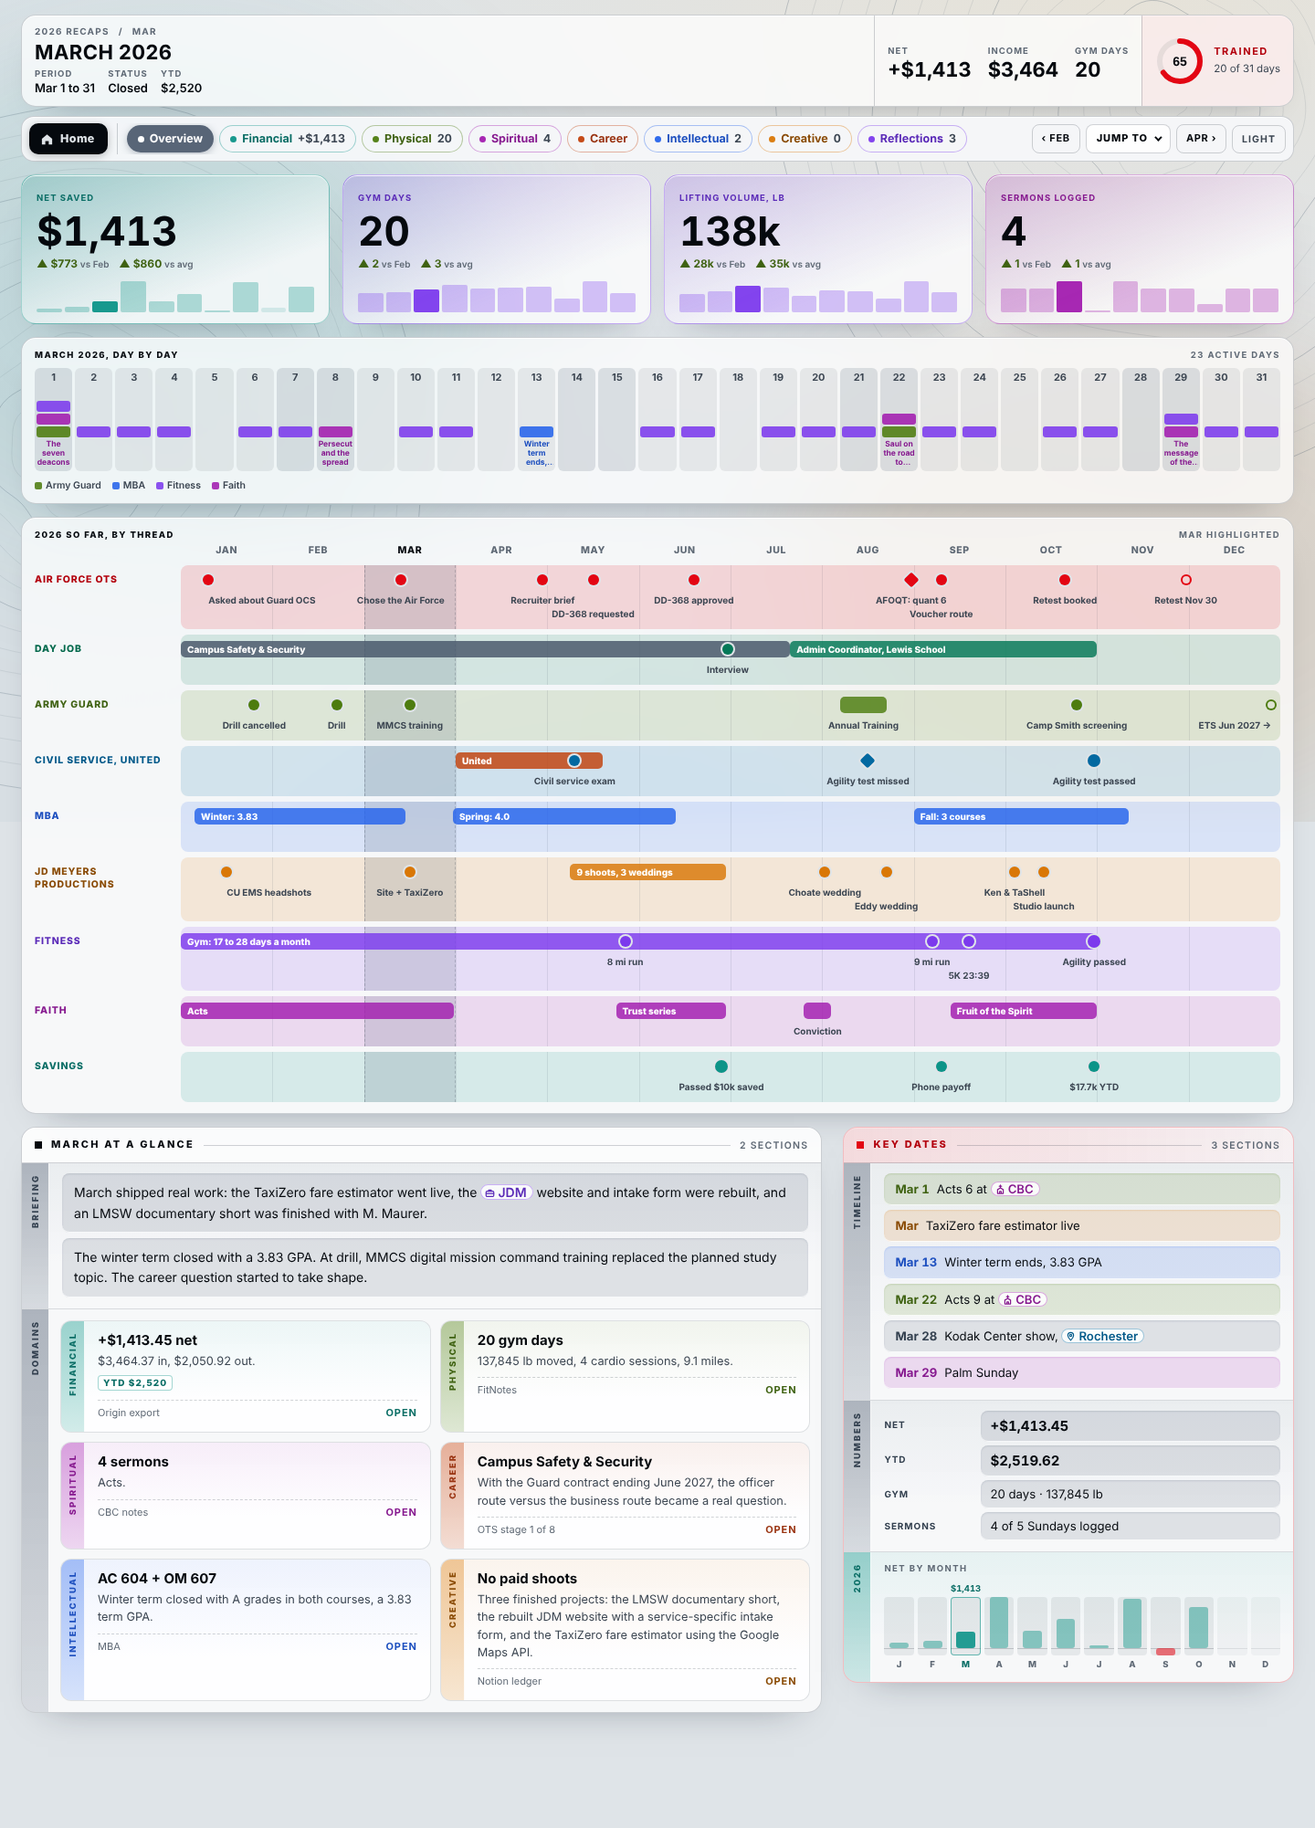
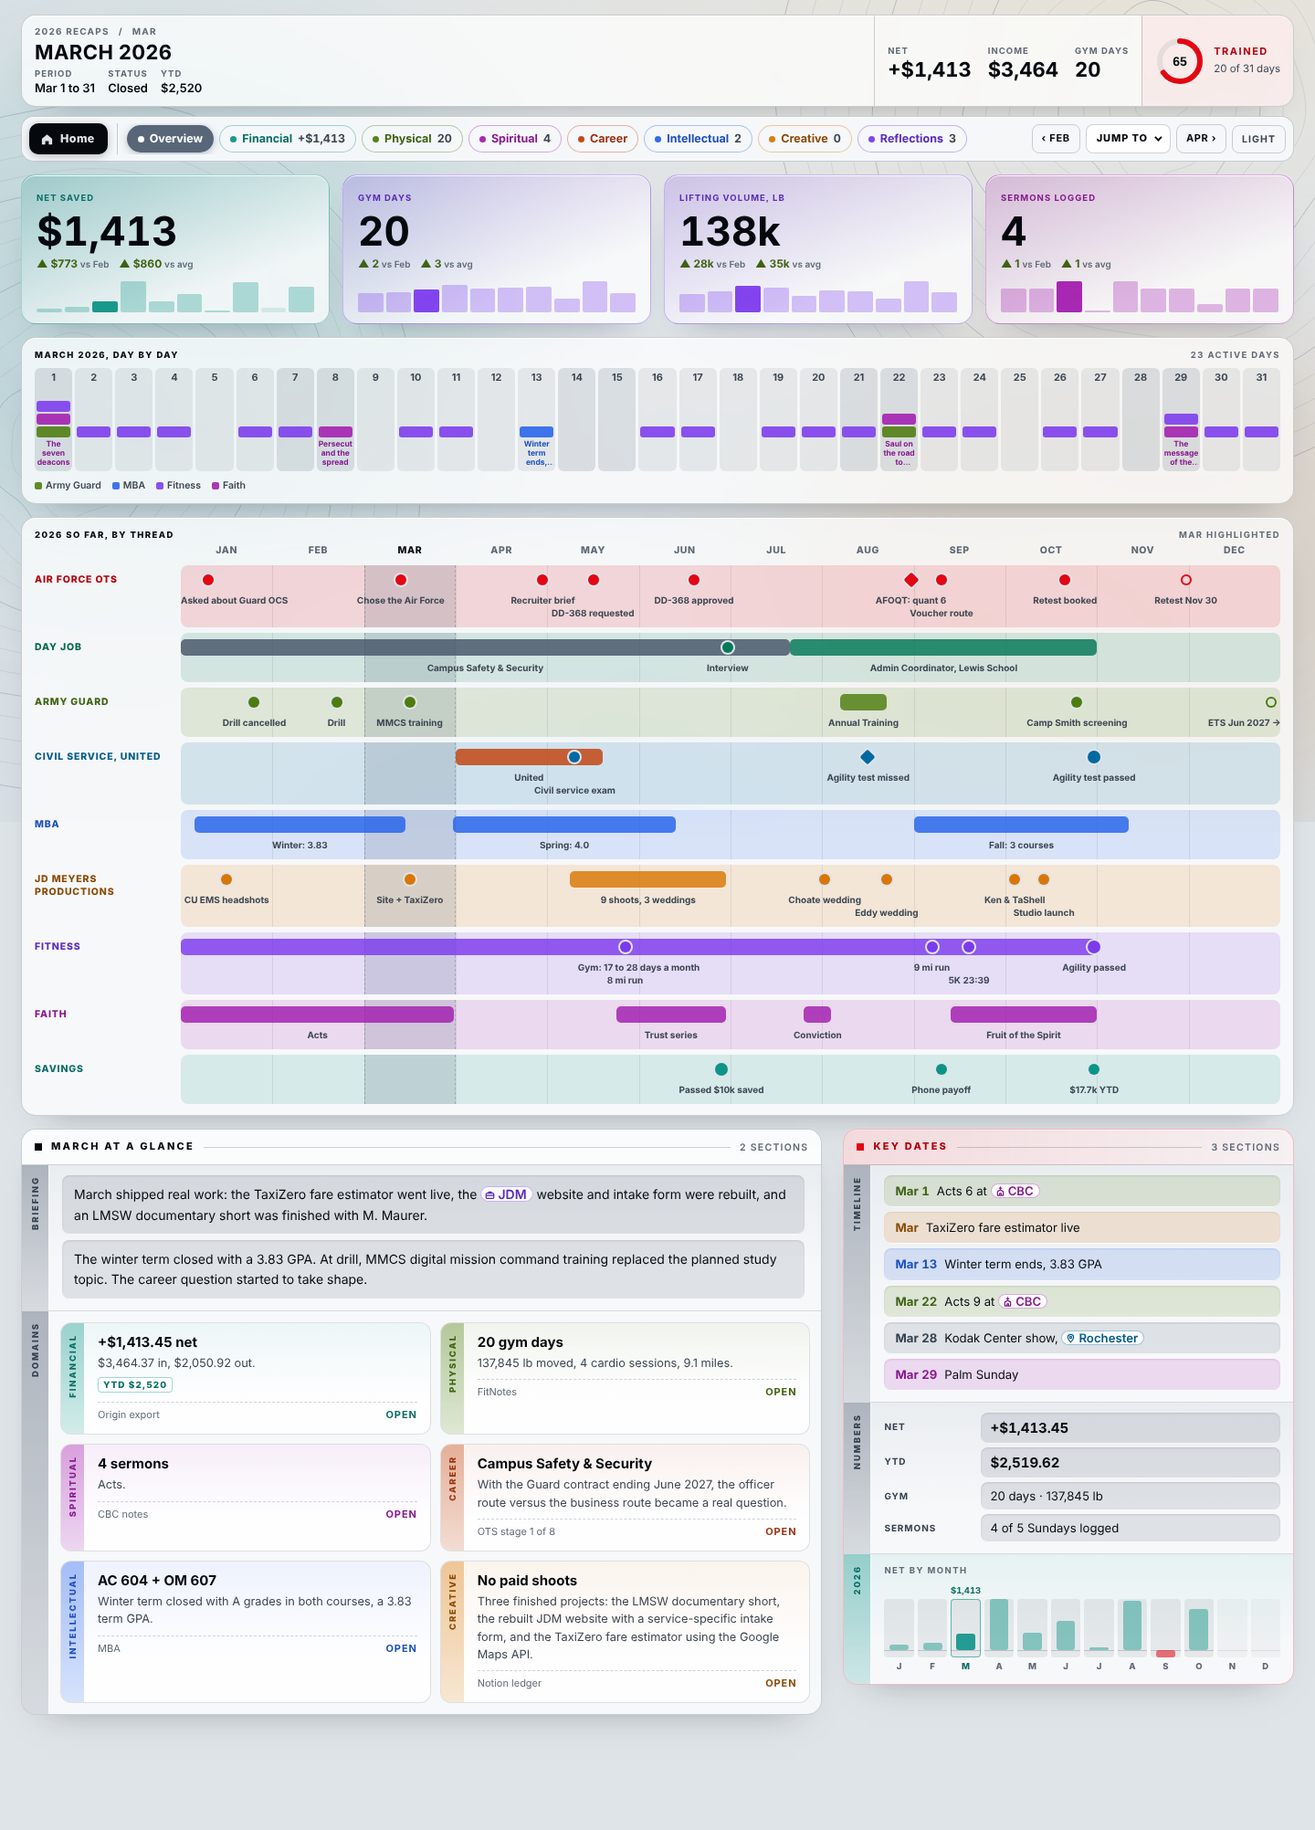
Polish: only the site bar pins, compact phone header and bar, motion tokens, lanes fit phones
Claude-Session: https://claude.ai/code/session_01X7LZkzwnUuj1945EJPLkyM

diff --git a/assets/ledger.css b/assets/ledger.css
@@ -7,12 +7,13 @@
    ===================================================================== */
 
 :root{
+  --ease-out:cubic-bezier(.25,1,.5,1); --ease-in:cubic-bezier(.5,0,.75,0); --t-fast:140ms; --t-med:220ms;
   --h-slate:71,85,105; --h-amber:217,119,6; --h-blue:37,99,235; --h-violet:124,58,237;
   --h-green:77,124,15; --h-teal:13,148,136; --h-red:227,6,19;
   --h-sky:3,105,161; --h-emerald:4,120,87; --h-magenta:162,28,175; --h-orange:194,65,12;
 
   --bg:#dfe4e8; --bg-wash-a:#e6e2d8; --bg-wash-b:#d8dfe4;
-  --glass:rgba(255,255,255,.74); --glass-solid:rgba(246,248,250,.93); --glass-head:rgba(255,255,255,.5); --glass-card:rgba(255,255,255,.85);
+  --glass:rgba(255,255,255,.74); --glass-solid:rgba(246,248,250,.96); --bg-solid:#f7f9fb; --glass-head:rgba(255,255,255,.5); --glass-card:rgba(255,255,255,.85);
   --hair:rgba(24,36,52,.2); --hair-soft:rgba(24,36,52,.14);
   --hi:rgba(255,255,255,.85); --shadow:0 18px 40px -30px rgba(20,30,45,.5);
   --text:#05090e; --muted:#3c4652; --faint:#5f6975;
@@ -28,7 +29,7 @@
 }
 @media (prefers-color-scheme:dark){:root:not([data-theme="light"]){
   --bg:#0b1016; --bg-wash-a:#141a22; --bg-wash-b:#0a0e13;
-  --glass:rgba(22,30,40,.55); --glass-solid:rgba(15,21,29,.9); --glass-head:rgba(255,255,255,.03); --glass-card:rgba(26,34,45,.62);
+  --glass:rgba(22,30,40,.55); --glass-solid:rgba(15,21,29,.95); --bg-solid:#121a24; --glass-head:rgba(255,255,255,.03); --glass-card:rgba(26,34,45,.62);
   --hair:rgba(220,232,245,.11); --hair-soft:rgba(220,232,245,.07);
   --hi:rgba(255,255,255,.06); --shadow:0 22px 50px -30px rgba(0,0,0,.9);
   --text:#e6ebf1; --muted:#9aa6b3; --faint:#6b7784;
@@ -40,7 +41,7 @@
   --brand:#ff3b47; color-scheme:dark}}
 :root[data-theme="dark"]{
   --bg:#0b1016; --bg-wash-a:#141a22; --bg-wash-b:#0a0e13;
-  --glass:rgba(22,30,40,.55); --glass-solid:rgba(15,21,29,.9); --glass-head:rgba(255,255,255,.03); --glass-card:rgba(26,34,45,.62);
+  --glass:rgba(22,30,40,.55); --glass-solid:rgba(15,21,29,.95); --bg-solid:#121a24; --glass-head:rgba(255,255,255,.03); --glass-card:rgba(26,34,45,.62);
   --hair:rgba(220,232,245,.11); --hair-soft:rgba(220,232,245,.07);
   --hi:rgba(255,255,255,.06); --shadow:0 22px 50px -30px rgba(0,0,0,.9);
   --text:#e6ebf1; --muted:#9aa6b3; --faint:#6b7784;
@@ -115,7 +116,7 @@ a{color:inherit}
 .tabs{display:flex;gap:6px;align-items:center;flex:1 1 auto;min-width:0;overflow-x:auto;scrollbar-width:none;padding:2px 2px 2px 10px;border-left:1px solid var(--hair)}
 .tabs::-webkit-scrollbar{display:none}
 .chip{display:inline-flex;align-items:center;gap:6px;flex:none;font-size:12.5px;font-weight:700;padding:6px 12px;border-radius:999px;background:transparent;color:var(--k,var(--text));
-  box-shadow:inset 0 0 0 1px rgba(var(--c,var(--h-slate)),var(--border-a));text-decoration:none;white-space:nowrap;transition:background .15s}
+  box-shadow:inset 0 0 0 1px rgba(var(--c,var(--h-slate)),var(--border-a));text-decoration:none;white-space:nowrap;transition:background-color var(--t-fast) var(--ease-out),color var(--t-fast) var(--ease-out),box-shadow var(--t-fast) var(--ease-out)}
 .chip:hover{background:rgba(var(--c,var(--h-slate)),var(--fill-a))}
 .chip[aria-pressed="true"],.chip[aria-current="page"]{background:rgba(var(--c,var(--h-slate)),.9);color:#fff;box-shadow:0 2px 8px rgba(var(--c),.35)}
 .chip[aria-current="page"] .dot{background:#fff}
@@ -131,7 +132,7 @@ a{color:inherit}
 .jump summary::-webkit-details-marker{display:none}
 .jump summary i{width:6px;height:6px;border-right:2px solid currentColor;border-bottom:2px solid currentColor;transform:rotate(45deg) translateY(-2px)}
 .jump[open] summary{background:rgba(var(--h-slate),.25)}
-.menu{position:absolute;right:0;top:calc(100% + 8px);width:300px;padding:10px;z-index:50;background:var(--glass-solid,var(--glass));box-shadow:var(--shadow),0 18px 40px rgba(0,0,0,.35)}
+.menu{position:absolute;right:0;top:calc(100% + 8px);width:300px;padding:10px;z-index:50;background:var(--bg-solid,var(--glass-solid));backdrop-filter:none;-webkit-backdrop-filter:none;box-shadow:var(--shadow),0 18px 40px rgba(0,0,0,.35)}
 .mgrid{display:grid;grid-template-columns:repeat(4,1fr);gap:5px}
 .mgrid a,.mgrid .off{display:flex;flex-direction:column;align-items:center;padding:7px 2px;border-radius:8px;text-decoration:none;border:1px solid var(--hair)}
 .mgrid b{font-size:12.5px;font-weight:800;color:var(--text)}
@@ -155,7 +156,6 @@ a{color:inherit}
 .parts{display:grid;grid-template-columns:minmax(0,64fr) minmax(0,36fr);gap:clamp(14px,1.6vw,26px);margin-top:14px;align-items:start}
 .sheet{overflow:hidden;min-width:0}
 .sheet.side{border-color:rgba(var(--h-red),.25)}
-.sheet.side.stick{position:sticky;top:calc(var(--barh,0px) + 20px)}
 .phead{display:flex;align-items:center;gap:10px;padding:11px 14px;font-size:11px;font-weight:800;letter-spacing:.2em;text-transform:uppercase;border-bottom:1px solid var(--hair);background:var(--glass-head)}
 .phead::before{content:"";width:8px;height:8px;background:var(--text);flex:none}
 .phead .rl{flex:1;border-top:1px solid var(--hair)}
@@ -269,7 +269,7 @@ a.card:hover{border-color:rgba(var(--c),.45)}
 .cat .ct::after{content:" txn"}
 .cat .pc{font-family:var(--display);font-size:11.5px;color:var(--muted);font-variant-numeric:tabular-nums;min-width:42px;text-align:right}
 .cat summary b{font-family:var(--display);font-size:13px;font-variant-numeric:tabular-nums;color:var(--k);min-width:78px;text-align:right}
-.cat .chev{width:7px;height:7px;border-right:2px solid var(--faint);border-bottom:2px solid var(--faint);transform:rotate(-45deg);justify-self:center}
+.cat .chev{width:7px;height:7px;border-right:2px solid var(--faint);border-bottom:2px solid var(--faint);transform:rotate(-45deg);justify-self:center;transition:transform var(--t-med) var(--ease-out)}
 .cat[open] .chev{transform:rotate(45deg)}
 .cat summary .hbar{grid-column:2/-1;height:5px}
 .cat .tx{padding:4px 0 8px 18px}
@@ -306,9 +306,9 @@ a.ym:hover .yb{box-shadow:inset 0 0 0 1px rgba(var(--c),.4)}
 .sx .es{color:var(--muted);font-variant-numeric:tabular-nums}
 
 /* back to top (the only fixed element besides the backdrop) */
-.up{position:fixed;right:max(16px,env(safe-area-inset-right,0px));bottom:max(16px,env(safe-area-inset-bottom,0px));z-index:5;width:40px;height:40px;border-radius:50%;
-  background:var(--glass);backdrop-filter:blur(13px);-webkit-backdrop-filter:blur(13px);border:1px solid var(--hair);box-shadow:var(--shadow);font-size:16px;font-weight:700;opacity:0;pointer-events:none;transition:opacity .2s}
-.up.show{opacity:1;pointer-events:auto}
+.up{position:fixed;transform:translateY(8px);right:max(16px,env(safe-area-inset-right,0px));bottom:max(16px,env(safe-area-inset-bottom,0px));z-index:5;width:40px;height:40px;border-radius:50%;
+  background:var(--glass);backdrop-filter:blur(13px);-webkit-backdrop-filter:blur(13px);border:1px solid var(--hair);box-shadow:var(--shadow);font-size:16px;font-weight:700;opacity:0;pointer-events:none;transition:opacity 160ms var(--ease-in),transform 160ms var(--ease-in)}
+.up.show{opacity:1;transform:none;pointer-events:auto;transition-duration:var(--t-med);transition-timing-function:var(--ease-out)}
 
 .card .ov,.card .app,.card .cm,.card .th{grid-column:1/-1}
 .card p.ov{color:var(--text);font-size:13.2px}
@@ -377,7 +377,7 @@ a.ym:hover .yb{box-shadow:inset 0 0 0 1px rgba(var(--c),.4)}
 
 /* responsive */
 @media (max-width:1040px){.top>:first-child{flex-basis:100%}.top>:nth-child(2){border-left:0}}
-@media (max-width:900px){.parts{grid-template-columns:minmax(0,1fr);gap:18px}.sheet.side.stick{position:relative;top:auto}}
+@media (max-width:900px){.parts{grid-template-columns:minmax(0,1fr);gap:18px}}
 @media (max-width:600px){
   .top>*{border-left:0;border-top:1px solid var(--hair);flex:1 1 100%}.top>:first-child{border-top:0}
   .cards{grid-template-columns:minmax(0,1fr);padding:10px}
@@ -392,7 +392,7 @@ a.ym:hover .yb{box-shadow:inset 0 0 0 1px rgba(var(--c),.4)}
   .cat summary{grid-template-columns:10px minmax(0,1fr) auto auto 12px}.cat .pc{display:none}
   .ym small{font-size:8px}
 }
-@media (prefers-reduced-motion:reduce){.layer{transform:none!important}}
+@media (prefers-reduced-motion:reduce){.layer{transform:none!important}*,*::before,*::after{animation-duration:1ms!important;animation-iteration-count:1!important;transition-duration:1ms!important;scroll-behavior:auto!important}}
 @media print{.bg,.bar,.toggle,.monthnav,.up{display:none}.glass{backdrop-filter:none;-webkit-backdrop-filter:none}}
 
 /* goals scorecard */
@@ -456,3 +456,66 @@ a.ym:hover .yb{box-shadow:inset 0 0 0 1px rgba(var(--c),.4)}
 .gl-d{font-size:11px;font-weight:800;padding:2px 7px;border-radius:6px;white-space:nowrap;font-variant-numeric:tabular-nums}
 .gl-d.gup{color:var(--ink-green);background:rgba(var(--h-green),.16)}
 .gl-d.gdn{color:var(--ink-red);background:rgba(var(--h-red),.14)}
+
+/* motion: short, ease-out on the way in, quicker on the way out; transform and opacity only */
+@keyframes fadeUp{from{opacity:0;transform:translateY(6px)}to{opacity:1;transform:none}}
+@keyframes fadeIn{from{opacity:0}to{opacity:1}}
+@keyframes dropIn{from{opacity:0;transform:translateY(-6px) scale(.98)}to{opacity:1;transform:none}}
+.enter{animation:fadeUp var(--t-med) var(--ease-out) both}
+.jump[open] .menu{animation:dropIn 180ms var(--ease-out) both;transform-origin:top right}
+.cat[open]>:not(summary),.sess[open]>:not(summary),details.more[open]>:not(summary){animation:fadeIn var(--t-med) var(--ease-out) both}
+.home,.step,.jump summary,.toggle,.mlinks a,.mgrid a,.gs-p,.ym,.row.link,.card[href],a.card{transition:background-color var(--t-fast) var(--ease-out),color var(--t-fast) var(--ease-out),border-color var(--t-fast) var(--ease-out),box-shadow var(--t-fast) var(--ease-out),filter var(--t-fast) var(--ease-out)}
+.home:active,.step:active,.jump summary:active,.toggle:active,.chip:active{transform:scale(.97)}
+.bar{transition:box-shadow var(--t-med) var(--ease-out)}
+.bar.pinned{box-shadow:0 10px 28px rgba(0,0,0,.28),inset 0 1px 0 var(--hi)}
+:root.theming *,:root.theming *::before{transition:background-color 220ms var(--ease-out),color 220ms var(--ease-out),border-color 220ms var(--ease-out)!important}
+.mtheme{display:none;width:100%;text-align:left;padding:7px 9px;border-radius:7px;border:0;background:transparent;font-size:12.5px;font-weight:700;color:var(--muted);cursor:pointer}
+.mtheme:hover{background:var(--pill-bg);color:var(--text)}
+:focus-visible{outline:2px solid rgba(var(--h-sky),.9);outline-offset:2px;border-radius:6px}
+
+/* readable line length on wide screens */
+.para,.gl-take,.gs-v,.list,.note{max-width:92ch}
+
+/* phones: one compact pinned row, a shorter header, KPI tiles two by two */
+@media (max-width:760px){
+  .bar{flex-wrap:nowrap;gap:6px;padding:6px;top:6px}
+  .home{padding:9px;font-size:0;gap:0}
+  .home svg{width:17px;height:17px}
+  .tabs{order:0;flex:1 1 auto;flex-basis:auto;border-top:0;padding:2px 0 2px 6px;border-left:1px solid var(--hair);
+    -webkit-mask-image:linear-gradient(90deg,#000 85%,transparent);mask-image:linear-gradient(90deg,#000 85%,transparent)}
+  .chip{padding:6px 10px;font-size:12px}
+  .navr .step,.navr .toggle{display:none}
+  .jump summary{padding:8px 9px;font-size:0;gap:0}
+  .jump summary::before{content:"Jump";font-size:11px}
+  .jump summary i{margin-left:6px}
+  .mtheme{display:block}
+  .menu{position:fixed;left:12px;right:12px;top:calc(var(--barh,52px) + 14px);width:auto}
+  .top{display:grid;grid-template-columns:minmax(0,1fr) auto}
+  .top>*{padding:9px 12px}
+  .top>.title{grid-column:1/-1}
+  .top>*{grid-column:1/-1;border-left:0!important;border-top:1px solid var(--hair)}
+  .top>.title{border-top:0}
+  .top>.stats{gap:16px}
+  .top>.ring-cell{padding:6px 12px}
+  .ring-cell svg{width:38px;height:38px}
+  .cap{display:flex;align-items:baseline;gap:8px}
+  .stat b{font-size:17px}
+  .kpis{grid-template-columns:repeat(2,minmax(0,1fr));gap:10px}
+  .kpi{padding:11px 12px 10px}
+  .kpi>b{font-size:26px}
+  .kpi .dl{font-size:11px}
+  .kpi .dl small{display:block;margin:0 0 2px}
+  .kpi .ks{height:22px;margin-top:6px}
+}
+
+/* phones: the year lanes fit the screen instead of scrolling sideways */
+@media (max-width:760px){
+  .lanes-wrap{overflow:visible}
+  .lanes{min-width:0;gap:8px}
+  .ln-row{grid-template-columns:minmax(0,1fr);gap:4px}
+  .ln-head .ln-k{display:none}
+  .ln-k{padding-top:0;font-size:10px}
+  .ln-head i{font-size:9px;letter-spacing:.02em}
+  .ln-lab{font-size:9px}
+  .ln-span em{font-size:9px;padding:0 5px}
+}

diff --git a/assets/ledger.js b/assets/ledger.js
@@ -10,6 +10,7 @@
   var ns = 'http://www.w3.org/2000/svg';
   var TX_LIMIT = 25;
 
+  var RM = window.matchMedia && window.matchMedia('(prefers-reduced-motion: reduce)').matches;
   /* ---------- theme: dark by default, remembered per browser ---------- */
   function curTheme() { return root.dataset.theme || 'dark'; }
   try { root.dataset.theme = localStorage.getItem('gl-theme') || 'dark'; } catch (e) { root.dataset.theme = 'dark'; }
@@ -354,7 +355,7 @@
   var pages = [['index.html', 'Home: the year'], ['index.html#goals', '2026 goals'], ['cbc-sermons.html', 'Sermon notes']];
   var monthsMenu = Yr ? Yr.files.map(function (f, i) { return f ? '<a href="' + f + '"' + (f === here ? ' aria-current="page"' : '') + '><b>' + Yr.months[i] + '</b><span>' + MN[i] + '</span></a>' : '<span class="off"><b>' + Yr.months[i] + '</b><span>Ahead</span></span>'; }).join('') : '';
   var menu = '<details class="jump"><summary>Jump to<i></i></summary><div class="glass menu"><div class="mgrid">' + monthsMenu + '</div><div class="mlinks">' +
-    pages.map(function (p) { return '<a href="' + p[0] + '">' + p[1] + '</a>'; }).join('') + '</div></div></details>';
+    pages.map(function (p) { return '<a href="' + p[0] + '">' + p[1] + '</a>'; }).join('') + '<button type="button" class="mtheme" data-theme-btn>Switch to light</button></div></div></details>';
   var isHome = here === 'index.html' || here === '';
   var home = '<a class="home" href="index.html#story"' + (isHome ? ' aria-current="page"' : '') + '><svg viewBox="0 0 16 16" aria-hidden="true"><path d="M2 7.5 8 2.5l6 5V14H10V10H6v4H2z"/></svg>Home</a>';
   var nav = '<div class="navr">' +
@@ -441,6 +442,12 @@
     wireCal();
     fitLanes();
     fitSide();
+    if (fromClick && !RM) { [parts, heroEl].forEach(function (el) { el.classList.remove('enter'); void el.offsetWidth; el.classList.add('enter'); }); }
+    var tabs = document.querySelector('.tabs'), on = tabs && tabs.querySelector('[aria-current]');
+    if (on && tabs.scrollWidth > tabs.clientWidth) {
+      var l = on.offsetLeft - tabs.offsetLeft, r = l + on.offsetWidth;
+      if (l < tabs.scrollLeft + 8 || r > tabs.scrollLeft + tabs.clientWidth - 8) tabs.scrollTo({ left: Math.max(0, l - 24), behavior: RM ? 'auto' : 'smooth' });
+    }
     if (fromClick) {
       var barEl = document.querySelector('.bar'), first = document.getElementById('hero').firstChild ? document.getElementById('hero') : parts;
       var target = window.scrollY + first.getBoundingClientRect().top - (barEl ? barEl.offsetHeight : 0) - 22;
@@ -461,22 +468,25 @@
       var tw = tr.clientWidth; if (!tw) return;
       [].forEach.call(tr.querySelectorAll('.ln-span'), function (sp, k) {
         var em = sp.querySelector('em'), alt = tr.querySelectorAll('.ln-lab.alt')[k];
-        var fits = em.scrollWidth <= sp.clientWidth;
+        var fits = em.scrollWidth + 14 <= sp.clientWidth;
         sp.classList.toggle('short', !fits);
         if (alt) alt.style.display = fits ? 'none' : '';
       });
       var labs = [].filter.call(tr.querySelectorAll('.ln-lab'), function (l) { return l.style.display !== 'none'; });
+      /* centre each label on its mark, but keep it inside the track */
       var items = labs.map(function (l) {
-        var w = l.offsetWidth, at = parseFloat(l.style.left) / 100 * tw;
-        var x0 = l.classList.contains('l') ? at : l.classList.contains('r') ? at - w : at - w / 2;
+        if (l.dataset.at == null) l.dataset.at = parseFloat(l.style.left);
+        var w = l.offsetWidth, at = l.dataset.at / 100 * tw;
+        var x0 = Math.max(0, Math.min(tw - w, at - w / 2));
+        l.style.left = x0 + 'px'; l.style.transform = 'none';
         return { el: l, x0: x0, x1: x0 + w };
       }).sort(function (a, b) { return a.x0 - b.x0; });
       var ends = [];
       items.forEach(function (it) {
         var r = 0; while (ends[r] != null && ends[r] > it.x0 - 8) r++;
-        ends[r] = it.x1; it.el.style.top = (r * 15) + 'px';
+        ends[r] = it.x1; it.el.style.top = (r * 14) + 'px';
       });
-      tr.style.height = (32 + Math.max(1, ends.length) * 15 + 8) + 'px';
+      tr.style.height = (32 + Math.max(1, ends.length) * 14 + 8) + 'px';
     });
   }
 
@@ -484,9 +494,7 @@
   function fitSide() {
     var barEl = document.querySelector('.bar'), bh = barEl ? barEl.offsetHeight : 0;
     root.style.setProperty('--barh', bh + 'px');
-    if (!sideEl) return;
-    var fits = sideEl.offsetHeight + bh + 40 < window.innerHeight && window.innerWidth > 900;
-    sideEl.classList.toggle('stick', fits);
+
   }
   var rz = false;
   window.addEventListener('resize', function () { if (!rz) { rz = true; requestAnimationFrame(function () { rz = false; fitLanes(); fitSide(); }); } }, { passive: true });
@@ -542,6 +550,13 @@
     });
   }
 
+  /* the bar casts a soft shadow only while it is pinned over content */
+  (function () {
+    var barEl = document.querySelector('.bar'); if (!barEl || !('IntersectionObserver' in window)) return;
+    var mark = document.createElement('div'); mark.style.cssText = 'height:1px;margin-bottom:-1px';
+    barEl.parentNode.insertBefore(mark, barEl);
+    new IntersectionObserver(function (en) { barEl.classList.toggle('pinned', !en[0].isIntersecting); }, { rootMargin: '-9px 0px 0px 0px' }).observe(mark);
+  })();
   /* scorecard rows jump to their goal group */
   document.addEventListener('click', function (e) {
     var p = e.target.closest && e.target.closest('.gs-p[data-g]'); if (!p) return;
@@ -549,7 +564,7 @@
     if (current() !== 'goals') { location.hash = 'goals'; }
     setTimeout(function () {
       var el = document.getElementById('g-' + p.getAttribute('data-g')), barEl = document.querySelector('.bar');
-      if (el) window.scrollTo(0, window.scrollY + el.closest('.band').getBoundingClientRect().top - (barEl ? barEl.offsetHeight : 0) - 22);
+      if (el) window.scrollTo({ top: window.scrollY + el.closest('.band').getBoundingClientRect().top - (barEl ? barEl.offsetHeight : 0) - 22, behavior: RM ? 'auto' : 'smooth' });
     }, 60);
   });
   document.addEventListener('click', function (e) {
@@ -559,13 +574,16 @@
   document.addEventListener('keydown', function (e) { var j = document.querySelector('details.jump'); if (e.key === 'Escape' && j) j.open = false; });
 
   /* ---------- theme toggle ---------- */
-  var btn = document.getElementById('theme');
-  function label() { btn.textContent = curTheme() === 'dark' ? 'LIGHT' : 'DARK'; }
-  btn.addEventListener('click', function () {
+  var btn = document.getElementById('theme'), mbtn = document.querySelector('[data-theme-btn]');
+  function label() { var d = curTheme() === 'dark'; btn.textContent = d ? 'LIGHT' : 'DARK'; if (mbtn) mbtn.textContent = d ? 'Switch to light' : 'Switch to dark'; }
+  function flip() {
+    root.classList.add('theming');
     root.dataset.theme = curTheme() === 'dark' ? 'light' : 'dark';
     try { localStorage.setItem('gl-theme', root.dataset.theme); } catch (e) {}
-    label();
-  });
+    label(); setTimeout(function () { root.classList.remove('theming'); }, 260);
+  }
+  btn.addEventListener('click', flip);
+  if (mbtn) mbtn.addEventListener('click', flip);
   label();
 
   /* ---------- backdrop: blobs + contour fields, fixed behind content ---------- */
